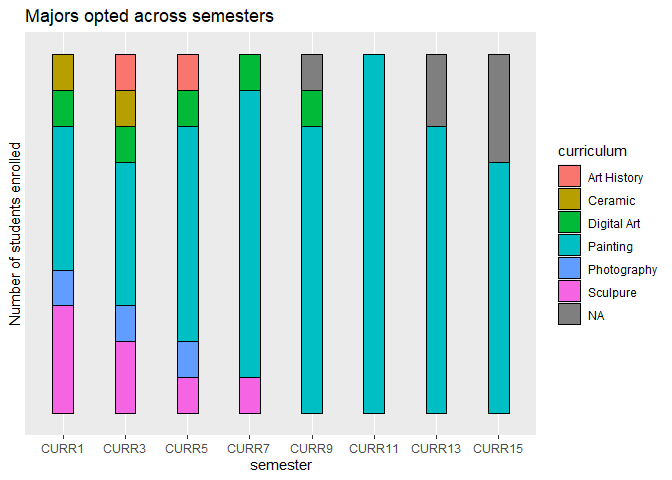
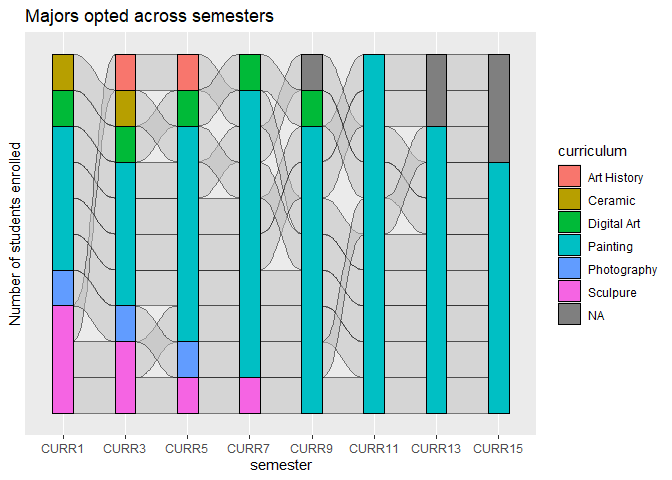
alluvial_diagram: add lodes_form.png with flows

diff --git a/alluvial_diagram/README.md b/alluvial_diagram/README.md
@@ -93,7 +93,7 @@ Alluvial plot
 majors %>% ggplot(aes(alluvium = student,
                       x = semester,
                       stratum = curriculum)) +
-       # geom_alluvium(color = "black") +
+        geom_alluvium(color = "black") +
         geom_stratum(aes(fill = curriculum),
                      color = "black") +
         scale_y_discrete(breaks = seq(1, 10, by = 1)) +
@@ -114,18 +114,18 @@ majors %>% ggplot(aes(alluvium = student,
 ```
 
     ## # A tibble: 10 × 9
-    ##    student CURR1       CURR3       CURR5       CURR7       CURR9 CURR11 CURR13 CURR15
-    ##      <int> <chr>       <chr>       <chr>       <chr>       <chr> <chr>  <chr>  <chr> 
-    ##  1       1 Painting    Painting    Painting    Painting    Pain… Paint… Paint… Paint…
-    ##  2       2 Painting    Painting    Painting    Painting    Pain… Paint… <NA>   <NA>  
-    ##  3       6 Sculpure    Sculpure    Painting    Painting    Pain… Paint… Paint… Paint…
-    ##  4       8 Painting    Painting    Painting    Painting    <NA>  Paint… Paint… Paint…
-    ##  5       9 Sculpure    Art History Art History Painting    Pain… Paint… Paint… Paint…
-    ##  6      10 Painting    Painting    Painting    Painting    Pain… Paint… <NA>   <NA>  
-    ##  7      11 Digital Art Digital Art Digital Art Digital Art Digi… Paint… Paint… Paint…
-    ##  8      12 Sculpure    Sculpure    Sculpure    Sculpure    Pain… Paint… Paint… Paint…
-    ##  9      14 Ceramic     Ceramic     Painting    Painting    Pain… Paint… Paint… Paint…
-    ## 10      15 Photography Photography Photography Painting    Pain… Paint… Paint… <NA>
+    ##    student CURR1       CURR3       CURR5       CURR7       CURR9       CURR11   CURR13   CURR15  
+    ##      <int> <chr>       <chr>       <chr>       <chr>       <chr>       <chr>    <chr>    <chr>   
+    ##  1       1 Painting    Painting    Painting    Painting    Painting    Painting Painting Painting
+    ##  2       2 Painting    Painting    Painting    Painting    Painting    Painting <NA>     <NA>    
+    ##  3       6 Sculpure    Sculpure    Painting    Painting    Painting    Painting Painting Painting
+    ##  4       8 Painting    Painting    Painting    Painting    <NA>        Painting Painting Painting
+    ##  5       9 Sculpure    Art History Art History Painting    Painting    Painting Painting Painting
+    ##  6      10 Painting    Painting    Painting    Painting    Painting    Painting <NA>     <NA>    
+    ##  7      11 Digital Art Digital Art Digital Art Digital Art Digital Art Painting Painting Painting
+    ##  8      12 Sculpure    Sculpure    Sculpure    Sculpure    Painting    Painting Painting Painting
+    ##  9      14 Ceramic     Ceramic     Painting    Painting    Painting    Painting Painting Painting
+    ## 10      15 Photography Photography Photography Painting    Painting    Painting Painting <NA>
 
 Alluvial plot
 
@@ -142,11 +142,11 @@ majors_alluvia %>% ggplot(aes(axis1 = CURR1,
                   discern = TRUE)
 ```
 
-    ## Warning in to_lodes_form(data = data, axes = axis_ind, discern = params$discern):
-    ## Some strata appear at multiple axes.
+    ## Warning in to_lodes_form(data = data, axes = axis_ind, discern = params$discern): Some strata
+    ## appear at multiple axes.
 
-    ## Warning in to_lodes_form(data = data, axes = axis_ind, discern = params$discern):
-    ## Some strata appear at multiple axes.
+    ## Warning in to_lodes_form(data = data, axes = axis_ind, discern = params$discern): Some strata
+    ## appear at multiple axes.
 
 ![](alluvial_form.png)<!-- -->
 
